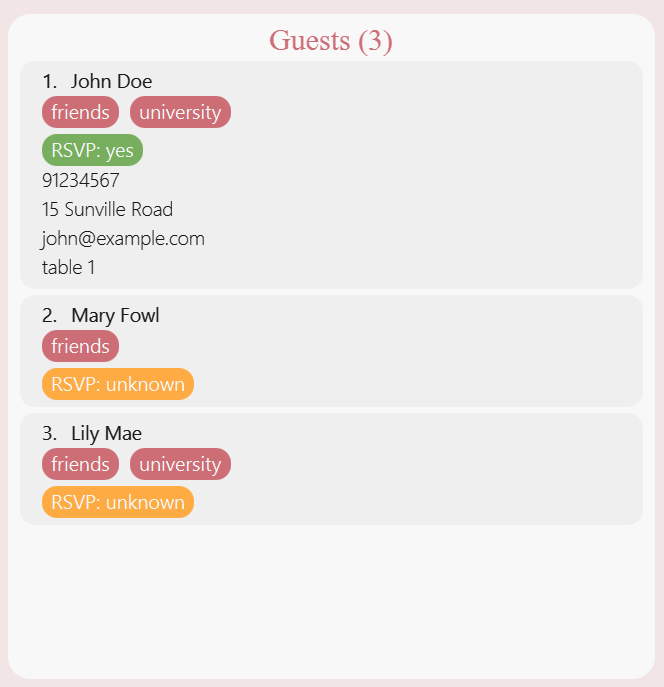
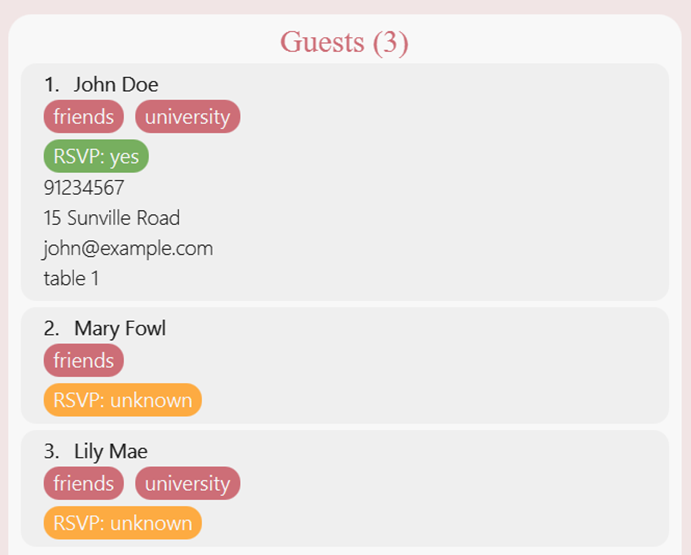
UG: Update page formatting
Let's,
* Update page formatting to accommodate back to top at bottom of pages
* Change fields such as "unknown" to be written as `unknown`
* Crop and resize some screenshots
* Shortened some tips

Changed region(s): [[0.0602, 0.0919, 0.3614, 0.7658], [0.0602, 0.7964, 0.3614, 0.9802], [0.3916, 0.0306, 0.6024, 0.0919]]

diff --git a/docs/UserGuide.md b/docs/UserGuide.md
@@ -177,6 +177,10 @@ WedLog is optimised for keyboard-based interaction to enhance the efficiency of 
 
 The command box is the gateway for you to interact with WedLog, allowing you to seamlessly execute various functions. Simply type a command in the command box and press `Enter` to execute it.
 
+<br />
+
+> [Back to top](#user-guide)
+
 --------------------------------------------------------------------------------------------------------------------
 
 <div style="page-break-after: always;"></div>
@@ -184,10 +188,6 @@ The command box is the gateway for you to interact with WedLog, allowing you to 
 #### 3.1.2. Result display
 
 Complementing the command box is the result display, where WedLog presents relevant responses based on the executed commands. When a command is successfully executed, a success message will be displayed. When an invalid command is entered, an error message will be displayed.
-
-<br />
-
-> [Back to top](#user-guide)
 
 --------------------------------------------------------------------------------------------------------------------
 
@@ -201,13 +201,19 @@ To navigate through your extensive lists, a user-friendly scroll bar is provided
 
 <pic src="images/understanding-interface/lists.png" alt="Screenshot of the guest and vendor lists"></pic>
 
+<br />
+
+> [Back to top](#user-guide)
+
+--------------------------------------------------------------------------------------------------------------------
+
 <div style="page-break-after: always;"></div>
 
 #### 3.2.1. Guest list
 
 The guest list allows you to meticulously manage and track all information related to your guests. 
 
-<pic src="images/understanding-interface/guest-card.png" alt="Screenshot of a guest card"></pic>
+<pic src="images/understanding-interface/guest-card.png" alt="Screenshot of a guest card" width="500"></pic>
 
 Individualized guest cards present comprehensive details, including tags, dietary requirements, RSVP status, phone numbers, addresses, emails, and assigned table numbers. This organized representation ensures that each guest's information is easily accessible and manageable.
 
@@ -215,7 +221,7 @@ Individualized guest cards present comprehensive details, including tags, dietar
 
 Similar to the guest list, the vendor list serves as a dedicated space for managing the vendors you are liaising with. 
 
-<pic src="images/understanding-interface/vendor-card.png" alt="Screenshot of a vendor card"></pic>
+<pic src="images/understanding-interface/vendor-card.png" alt="Screenshot of a vendor card" width="500"></pic>
 
 Vendor cards encapsulate key information such as tags, phone numbers, addresses, and emails, providing you with a comprehensive snapshot of each vendor's essential details.
 
@@ -250,6 +256,8 @@ The pie chart slices are colour-coded as follows:
 - `No`: Red
 - `Unknown`: Orange
 
+> [Back to top](#user-guide)
+
 --------------------------------------------------------------------------------------------------------------------
 
 #### 3.3.2. Dietary Requirements panel
@@ -265,8 +273,8 @@ for you to consider when planning the menu for your wedding. The panel is also u
 
 <box type="tip">
 
-- **The panel only displays dietary requirements for guests with RSVP status "Yes".** This is because guests with RSVP status "No" or "Unknown" are not expected to attend the wedding, and hence do not need to have their dietary requirements taken into account.
-- If a guest has no specified dietary requirements, we will consider the guest to have "regular" dietary requirements.
+- **The panel only displays dietary requirements for guests with RSVP status `yes`.** This is because guests with RSVP status `no` or `unknown` are not expected to attend the wedding, and hence do not need to have their dietary requirements taken into account.
+- If a guest has no specified dietary requirements, we will consider the guest to have `regular` dietary requirements.
 - Dietary requirements are displayed in descending order of the number of guests with the same requirements.
 
 </box>
@@ -300,7 +308,10 @@ Your app should now look like this:
 <br />
 
 > [Back to top](#user-guide)
+
 --------------------------------------------------------------------------------------------------------------------
+
+<div style="page-break-after: always;"></div>
 
 ### 4.2. Adding a guest
 
@@ -316,7 +327,7 @@ Congratulations! You have successfully added your first guest to your guest list
 
 <box type="tip">
 
-Notice how the default RSVP status for a guest is 'Unknown'. We'll learn how to update this in the next section.
+Notice how the default RSVP status for a guest is `unknown`. We'll learn how to update this in the next section.
 
 </box>
 
@@ -326,9 +337,11 @@ Notice how the default RSVP status for a guest is 'Unknown'. We'll learn how to 
 
 --------------------------------------------------------------------------------------------------------------------
 
+<div style="page-break-after: always;"></div>
+
 ### 4.3. Editing a guest
 
-Let's make adjustments to the details of a guest with the `guest edit` command. Suppose John Doe has responded to your invite and confirms that he will be attending your wedding. To reflect this, we'll update the `RSVP status` for John Doe to `Yes`.
+Let's make adjustments to the details of a guest with the `guest edit` command. Suppose John Doe has responded to your invite and confirms that he will be attending your wedding. To reflect this, we'll update the RSVP status for John Doe to `yes`.
 
 Type the following command and press `Enter`:
 
@@ -374,11 +387,15 @@ Your app should now look like this:
 
 <pic src="images/tutorial/guest-filter-0.png" alt="Screenshot after adding guests"></pic>
 
-Now that we have a few guests on our list, let's begin filtering. 
+> [Back to top](#user-guide)
+
+--------------------------------------------------------------------------------------------------------------------
 
 <div style="page-break-after: always;"></div>
 
-First, let's filter for all guests who are friends. The following command will result in a list that contains only guests with the `TAG` `friends`.
+Now that we have a few guests on our list, let's begin filtering.
+
+First, let's filter for all guests who are friends. The following command will result in a list that contains only guests with the tag `friends`.
 
 `guest filter t/friends`
 
@@ -392,9 +409,7 @@ Notice that the number of guests stated at the top of the guest list has changed
 
 </box>
 
-<div style="page-break-after: always;"></div>
-
-Next, let's narrow down our search to filter for all guests who are friends from university. The following command will result in a list that contains only guests with the `TAG` `friends` and `university`.
+Next, let's narrow down our search to filter for all guests who are friends from university. The following command will result in a list that contains only guests with the tags `friends` and `university`.
 
 `guest filter t/friends t/university`
 
@@ -407,6 +422,8 @@ Your guest list should now look like this:
 Notice that Mary Fowl is no longer included on this list, since she does not have the `university` tag.
 
 </box>
+
+> [Back to top](#user-guide)
 
 <div style="page-break-after: always;"></div>
 
@@ -426,11 +443,7 @@ Notice that John Doe is not included on this list, since we have previously assi
 
 <br />
 
-> [Back to top](#user-guide)
-
 --------------------------------------------------------------------------------------------------------------------
-
-<div style="page-break-after: always;"></div>
 
 ### 4.5. What's next?
 
@@ -448,6 +461,8 @@ Happy planning, and may your wedding be everything you've dreamed of!
 
 --------------------------------------------------------------------------------------------------------------------
 
+<div style="page-break-after: always;"></div>
+
 ## 5. Features
 
 ### Understanding the parameter format
@@ -461,7 +476,11 @@ Let's breakdown an example parameter `x/ABC` below.
 | Labels should be used in the exact format described in this guide.                                         | `n/` must be typed as `n/`. Variations such as `N/` or `name/` are invalid.                         |
 | Placeholder values can be replaced with your own information.                                              | In `guest add n/NAME`, `NAME` is a placeholder which can be replaced, as in `guest add n/Gina Gan`. |
 
-<br>
+<br />
+
+> [Back to top](#user-guide)
+
+----------------------------------------------------------------------------------------------
 
 <div style="page-break-after: always;"></div>
 
@@ -524,7 +543,7 @@ A guest and vendor can share the same name (e.g. Even if there is a vendor named
 
 Examples:
 - `guest add n/Gina p/91234567 a/Blk 123 r/no`: Adds a guest named `Gina` with phone number `91234567`, address `Blk 123`, 
-and RSVP status of `No`.
+and RSVP status of `no`.
 - `guest add n/Gerald d/ r/`: Adds a guest named `Gerald` with no dietary requirements and unknown RSVP status.
 - `guest add n/Georgiana Tan t/family t/bridesmaid`: Adds a guest named `Georgiana` with two tags, `family` and `bridesmaid`.
 
@@ -536,6 +555,10 @@ Expected behaviour upon failure:
 - Not providing the `NAME` parameter: Displays in the error message “Invalid command format!” followed by instruction on `guest add` usage.
 - Adding a new guest with the same `NAME` as an existing guest: Displays the error message "This guest already exists in WedLog." 
 - Providing invalid values for parameters with input restrictions will also trigger error messages.
+
+<br />
+
+> [Back to top](#user-guide)
 
 --------------------------------------------------------------------------------------------------------------------
 
@@ -620,7 +643,13 @@ Expected behaviour upon failure:
 - Number out of index range: Displays error message "The guest index provided is invalid."
 - Input for index not a number, or no number: Displays error message "Invalid command format!" followed by instruction on guest delete usage.
 
+<br />
+
+> [Back to top](#user-guide)
+
 --------------------------------------------------------------------------------------------------------------------
+
+<div style="page-break-after: always;"></div>
 
 #### 5.2.2. Deleting a vendor: `vendor delete`
 
@@ -658,6 +687,8 @@ Expected behaviour upon failure:
 
 --------------------------------------------------------------------------------------------------------------------
 
+<div style="page-break-after: always;"></div>
+
 ### 5.3. Edit Command
 
 #### 5.3.1. Editing a guest: `guest edit`
@@ -680,7 +711,7 @@ Refer to the [Appendix](#10-appendix-acceptable-values-for-parameters) for more 
 
 <box type="warning">
 
-If the edited name specified in `n/NAME` corresponds to the name of an existing guest in WedLog, an error message will be displayed.
+The edited `NAME` cannot correspond to an existing guest in WedLog.
 
 </box>
 
@@ -689,8 +720,6 @@ If the edited name specified in `n/NAME` corresponds to the name of an existing 
 `INDEX` refers to the index number of the guest currently displayed on the guest list.
 
 </box>
-
-<div style="page-break-after: always;"></div>
 
 Examples:
 - `guest list` followed by `guest edit 2 p/914624435` edits the phone number of the 2nd guest to be `91462435`.
@@ -705,6 +734,8 @@ Expected behaviour upon failure:
 - Index is not a number, or no index provided: Displays error message "Invalid command format!" followed by instruction on guest edit usage.
 - No parameters provided: Displays error message "At least one field to edit must be provided."
 - Index does not correspond to any guest: Displays error message "The guest index provided is invalid."
+
+> [Back to top](#user-guide)
 
 --------------------------------------------------------------------------------------------------------------------
 
@@ -728,7 +759,7 @@ Refer to the [Appendix](#10-appendix-acceptable-values-for-parameters) for more 
 
 <box type="warning">
 
-If the edited name specified in `n/NAME` corresponds to the name of an existing guest in WedLog, an error message will be displayed.
+The edited `NAME` cannot correspond to an existing vendor in WedLog.
 
 </box>
 
@@ -757,6 +788,8 @@ Expected behaviour upon failure:
 > [Back to top](#user-guide)
 
 --------------------------------------------------------------------------------------------------------------------
+
+<div style="page-break-after: always;"></div>
 
 ### 5.4. List Command
 
@@ -790,6 +823,8 @@ Expected behaviour upon success:
 
 --------------------------------------------------------------------------------------------------------------------
 
+<div style="page-break-after: always;"></div>
+
 ### 5.5. Filter Command
 
 #### 5.5.1. Filtering guests: `guest filter`
@@ -805,29 +840,15 @@ Format: `guest filter [n/NAME] [p/PHONE] [e/EMAIL] [a/ADDRESS] [r/RSVP_STATUS] [
 
 * You can use any combination of letters, numbers and special characters as inputs for all parameters.
 * For all parameters aside from `NAME` and `RSVP_STATUS`, providing an empty value (e.g. `p/`) will filter for guests with unfilled values for that parameter. 
-* Providing an empty `RSVP_STATUS` will filter for guests with RSVP status `Unknown`. 
+* Providing an empty `RSVP_STATUS` will filter for guests with RSVP status `unknown`. 
 * Providing an empty `NAME` will filter for guests without a name, thus returning an empty guest list as all guests need a name.
 * At least one parameter must be specified in a filter command.
 
 </box>
 
-<div style="page-break-after: always;"></div>
-
 <box type="tip">
 
-**Note:**
-
-* The filter command will only return guests that match all the input values across different parameters.
-* The following parameters are filtered via a case-insensitive partial match (i.e. `guest filter n/john` returns `john` and `johnathan`):
-  * `NAME`
-  * `PHONE`
-  * `EMAIL`
-  * `ADDRESS`
-* The following parameters are filtered via a case-insensitive exact match (i.e. a guest with the tag `friends` would not be a valid result for the input `t/friend`):
-  * `RSVP_STATUS`
-  * `TABLE_NUMBER`
-  * `DIETARY_REQUIREMENT`
-  * `TAG`
+The filter command will only return guests that match all the input values across different parameters.
 
 </box>
 
@@ -844,8 +865,11 @@ Expected behaviour upon success:
 Expected behaviour upon failure:
 - No parameter (e.g. `guest filter`): Displays error message "No prefix was found in the command!" followed by instruction on guest filter usage.
 
+> [Back to top](#user-guide)
 
 --------------------------------------------------------------------------------------------------------------------
+
+<div style="page-break-after: always;"></div>
 
 #### 5.5.2. Filtering vendors: `vendor filter`
 
@@ -870,16 +894,7 @@ Format: `vendor filter [n/NAME] [p/PHONE] [e/EMAIL] [a/ADDRESS] [t/TAG]…`
 
 <box type="tip">
 
-**Note:**
-
-* The filter command will only return vendors that match all the input values across different parameters.
-* The following parameters are filtered via a case-insensitive partial match (i.e. `vendor filter n/john` returns `john` and `johnathan`):
-    * `NAME`
-    * `PHONE`
-    * `EMAIL`
-    * `ADDRESS`
-* The following parameters are filtered via a case-insensitive exact match (i.e. a vendor with the tag `djay` would not be a valid result for the input `t/dj`):
-    * `TAG`
+The filter command will only return vendors that match all the input values across different parameters.
 
 </box>
 
@@ -948,6 +963,11 @@ The redo command can be triggered by pressing `Control` + `Y` (Windows) or `Comm
 
 </box>
 
+<br />
+
+> [Back to top](#user-guide)
+
+<!-- This page break is not ideal -->
 <div style="page-break-after: always;"></div>
 
 Examples:
@@ -1028,8 +1048,6 @@ unable to help you recover your lost data.
 **A**: We hope you had a good wedding planning journey with WedLog! If you placed WedLog inside a dedicated folder during the installation process,
 simply delete the entire folder. Otherwise, you will have to find and delete the following files individually: `wedlog.jar`, `addressbook.log.0`, `preferences.json`, `config.json`, alongside the `data` folder.
 
-> [Back to top](#user-guide)
-
 --------------------------------------------------------------------------------------------------------------------
 
 ## 7. Known Issues
@@ -1100,6 +1118,8 @@ simply delete the entire folder. Otherwise, you will have to find and delete the
         - end with a domain label at least 2 characters long.
         - have each domain label start and end with alphanumeric characters.
         - have each domain label consist of alphanumeric characters, separated only by hyphens, if any.
+
+> [Back to top](#user-guide)
 
 **Acceptable values for `a/ADDRESS`:**
 - Word with or without spaces and should not be blank.
